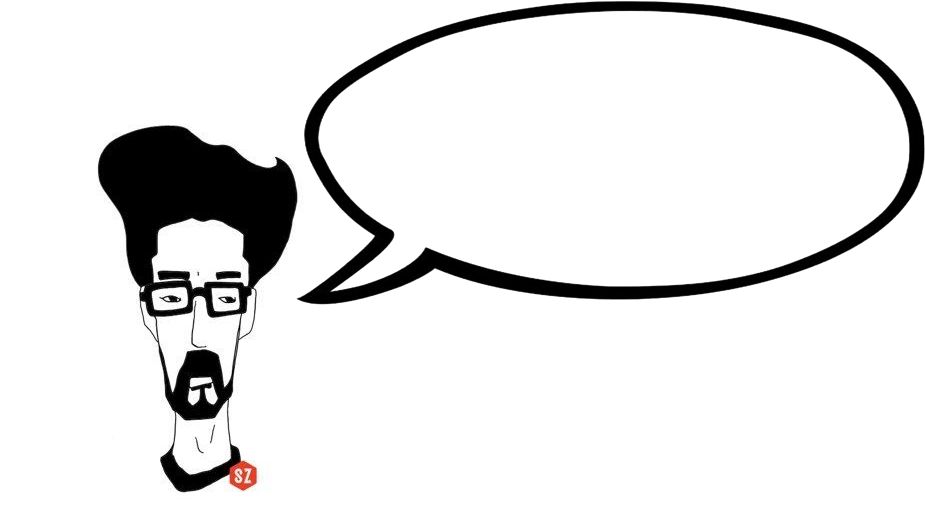
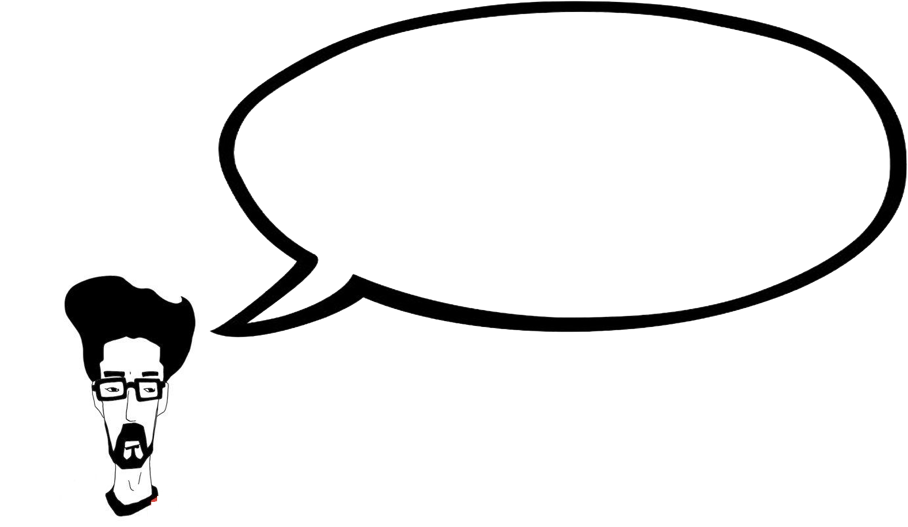
1. 이미지 사이즈 조절 2. 헤더 부분 수정

Changed region(s): [[0.0617, 0.0, 1.0, 1.0]]

diff --git a/index.html b/index.html
@@ -37,7 +37,7 @@
 <body>
 
     <header class="header">
-       <img src="img/bubble-speech.png" alt="">
+       <img src="img/bubble-speech.png" alt="header-img" class="younseokc">
         <h1 class="typo-title">
             <span class="typer" id="some-id" data-delay="100" data-delim=":" data-words="UI/UX DESIGNER:and:PUBULISHER" data-colors="#324155"></span>
             <span class="cursor" data-cursorDisplay="_" data-owner="some-id"></span>

diff --git a/css/style.css b/css/style.css
@@ -33,10 +33,12 @@
     border-style: none;
     margin-bottom: 0px;
 }
-.header> img{
+.header> .younseokc{
     position: absolute;
     top: 0px;
-    right: 200px;
+    width: 70%;
+    left: 15%;
+    top: 10%;
 }
 
 .typo-title {
